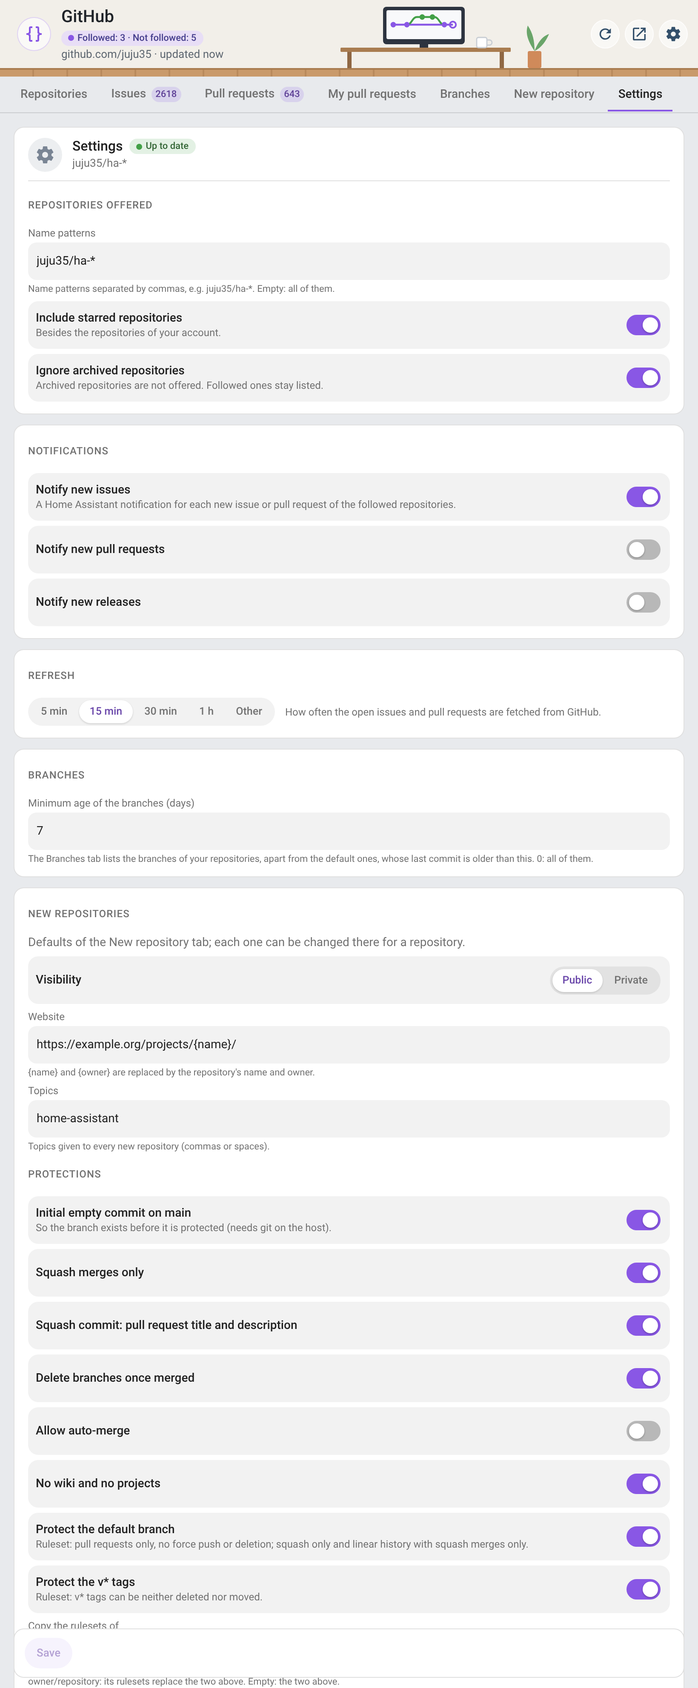
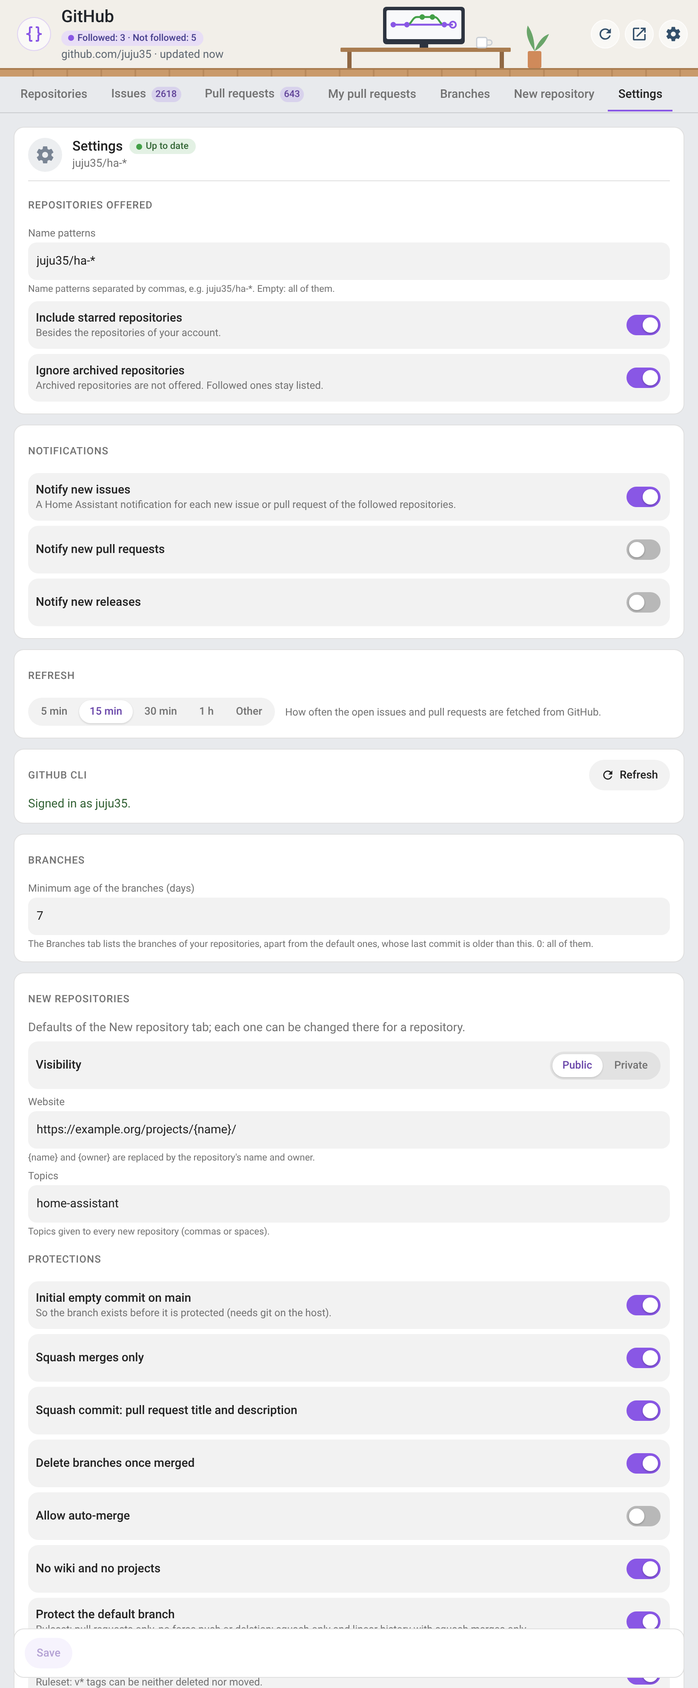
fix: find gh in the configuration folder on Home Assistant OS (2.19.1) (#70)
On Home Assistant OS, Home Assistant runs in its own container: a `gh`
installed or signed in elsewhere (Terminal & SSH add-on, another
machine) is not seen, so the New repository tab and branch deletion
never showed.

- `gh` is now also looked for in the configuration folder:
`/config/.gh/bin/gh`, signed in with `GH_CONFIG_DIR=/config/.gh/config`
— shared with the Terminal & SSH add-on and kept across updates; then
the `PATH`.
- Settings → **GitHub CLI**: whether `gh` is found and signed in (path,
config folder, or gh's error), how to set it up, and a Refresh button.
- README: setup steps for Home Assistant OS (download gh into
`/config/.gh/bin`, `gh auth login` with `GH_CONFIG_DIR`), backup note on
the token.

---
_Generated by [Claude Code](https://claude.ai/code)_

---------

diff --git a/src/github-panel/i18n/el.js b/src/github-panel/i18n/el.js
@@ -35,4 +35,5 @@ export default [
   "Ιστότοπος", "Προαιρετικό: η αρχική σελίδα του αποθετηρίου (https://…).", "Ιστότοπος: διεύθυνση http(s) έως 255 χαρακτήρες.",
   "Νέα αποθετήρια", "Προεπιλογές της καρτέλας Νέο αποθετήριο· η καθεμία αλλάζει εκεί για ένα αποθετήριο.", "Τα {name} και {owner} αντικαθίστανται από το όνομα και τον κάτοχο του αποθετηρίου.", "Θέματα για κάθε νέο αποθετήριο (κόμματα ή κενά).", "Προστασίες", "Προεπιλογές από τις Ρυθμίσεις.", "Αρχικό κενό commit στο main", "Ώστε ο κλάδος να υπάρχει πριν προστατευτεί (απαιτεί git στον κεντρικό υπολογιστή).", "Μόνο squash merge", "Squash commit: τίτλος και περιγραφή του pull request", "Διαγραφή κλάδων μετά τη συγχώνευση", "Να επιτρέπεται το auto-merge", "Χωρίς wiki και έργα", "Προστασία του προεπιλεγμένου κλάδου", "Ruleset: μόνο pull requests, χωρίς force push ή διαγραφή· μόνο squash και γραμμικό ιστορικό με «Μόνο squash merge».", "Προστασία των ετικετών v*", "Ruleset: οι ετικέτες v* δεν διαγράφονται ούτε μετακινούνται.", "Αντιγραφή rulesets από", "κάτοχος/αποθετήριο: τα rulesets του αντικαθιστούν τα δύο παραπάνω. Κενό: τα δύο παραπάνω.", "Δημιουργήθηκε, αλλά κάποια βήματα απέτυχαν:", "{step}: {error}", "Αρχικό κενό commit", "Ρυθμίσεις συγχώνευσης", "Θέματα", "Ruleset", "Αντιγραφή rulesets από: κάτοχος/αποθετήριο.",
   "Κλάδοι", "{n} παλαιότεροι από {days} ημ.", "{n} αποθετήρια", "Κανένας κλάδος παλαιότερος από {days} ημέρες, εκτός των προεπιλεγμένων.", "Επιλογή όλων", "Διαγραφή ({n})", "Διαγραφή {n} κλάδων; Δεν αναιρείται.", "Διαγράφηκαν {n} κλάδοι.", "{n} δεν διαγράφηκαν:", "Ανοιχτό pull request #{number}", "{n} ημ.", "προεπιλεγμένος κλάδος", "μη έγκυρο όνομα", "Κλάδοι", "Ελάχιστη ηλικία κλάδων (ημέρες)", "Η καρτέλα Κλάδοι δείχνει τους κλάδους των αποθετηρίων σας, εκτός των προεπιλεγμένων, των οποίων το τελευταίο commit είναι παλαιότερο. 0: όλοι.",
+  "GitHub CLI", "Συνδεδεμένος ως {login}.", "Το gh δεν βρέθηκε στον κεντρικό υπολογιστή του Home Assistant.", "Το gh δεν είναι συνδεδεμένο: {error}", "Χρειάζεται για την καρτέλα Νέο αποθετήριο και τη διαγραφή κλάδων. Στο Home Assistant OS, βάλτε το gh στο /config/.gh/bin και συνδεθείτε από το πρόσθετο Terminal & SSH: GH_CONFIG_DIR=/config/.gh/config /config/.gh/bin/gh auth login",
 ];

diff --git a/src/github-panel/i18n/bg.js b/src/github-panel/i18n/bg.js
@@ -35,4 +35,5 @@ export default [
   "Уебсайт", "По избор: началната страница на хранилището (https://…).", "Уебсайт: http(s) адрес до 255 знака.",
   "Нови хранилища", "Стойности по подразбиране на раздела Ново хранилище; всяка се променя там за хранилище.", "{name} и {owner} се заменят с името и собственика на хранилището.", "Теми за всяко ново хранилище (запетаи или интервали).", "Защити", "Стойности по подразбиране от Настройки.", "Начален празен commit в main", "За да съществува клонът преди защитата (изисква git на хоста).", "Само squash merge", "Squash commit: заглавие и описание на pull request", "Изтриване на клоновете след сливане", "Разрешаване на auto-merge", "Без уики и проекти", "Защита на клона по подразбиране", "Ruleset: само pull request-и, без force push и изтриване; само squash и линейна история при „Само squash merge“.", "Защита на таговете v*", "Ruleset: таговете v* не могат да се изтриват или местят.", "Копиране на rulesets от", "собственик/хранилище: неговите rulesets заменят двата по-горе. Празно: двата по-горе.", "Създадено, но някои стъпки не успяха:", "{step}: {error}", "Начален празен commit", "Настройки за сливане", "Теми", "Ruleset", "Копиране на rulesets от: собственик/хранилище.",
   "Клонове", "{n} по-стари от {days} д", "{n} хранилища", "Няма клонове по-стари от {days} дни, освен тези по подразбиране.", "Избор на всички", "Изтриване ({n})", "Да се изтрият ли {n} клона? Действието е необратимо.", "Изтрити клонове: {n}.", "Неуспешно изтриване: {n}:", "Отворен pull request #{number}", "{n} д", "клон по подразбиране", "невалидно име", "Клонове", "Минимална възраст на клоновете (дни)", "Разделът Клонове показва клоновете на хранилищата ви, освен тези по подразбиране, чийто последен commit е по-стар. 0: всички.",
+  "GitHub CLI", "Влезли сте като {login}.", "gh не е намерен на хоста на Home Assistant.", "gh не е влязъл: {error}", "Нужен за раздела Ново хранилище и за изтриване на клонове. В Home Assistant OS сложете gh в /config/.gh/bin и влезте от добавката Terminal & SSH: GH_CONFIG_DIR=/config/.gh/config /config/.gh/bin/gh auth login",
 ];

diff --git a/src/github-panel/i18n/ru.js b/src/github-panel/i18n/ru.js
@@ -35,4 +35,5 @@ export default [
   "Веб-сайт", "Необязательно: домашняя страница репозитория (https://…).", "Веб-сайт: адрес http(s) длиной до 255 символов.",
   "Новые репозитории", "Значения по умолчанию вкладки «Новый репозиторий»; каждое можно изменить там для репозитория.", "{name} и {owner} заменяются именем и владельцем репозитория.", "Темы для каждого нового репозитория (через запятую или пробел).", "Защита", "Значения по умолчанию из настроек.", "Пустой первый коммит в main", "Чтобы ветка существовала до защиты (нужен git на хосте).", "Только squash merge", "Коммит squash: заголовок и описание pull request", "Удалять ветки после слияния", "Разрешить auto-merge", "Без вики и проектов", "Защитить ветку по умолчанию", "Ruleset: только pull request, без force push и удаления; только squash и линейная история при «Только squash merge».", "Защитить теги v*", "Ruleset: теги v* нельзя удалить или переместить.", "Копировать rulesets из", "владелец/репозиторий: его rulesets заменяют два выше. Пусто: два выше.", "Создан, но некоторые шаги не удались:", "{step}: {error}", "Пустой первый коммит", "Настройки слияния", "Темы", "Ruleset", "Копировать rulesets из: владелец/репозиторий.",
   "Ветки", "{n} старше {days} дн.", "{n} репозиториев", "Нет веток старше {days} дн., кроме веток по умолчанию.", "Выбрать все", "Удалить ({n})", "Удалить веток: {n}? Это необратимо.", "Удалено веток: {n}.", "Не удалось удалить: {n}:", "Открытый pull request #{number}", "{n} дн.", "ветка по умолчанию", "недопустимое имя", "Ветки", "Минимальный возраст веток (дни)", "Вкладка «Ветки» показывает ветки ваших репозиториев, кроме веток по умолчанию, чей последний коммит старше. 0: все.",
+  "GitHub CLI", "Вход выполнен как {login}.", "gh не найден на хосте Home Assistant.", "gh не авторизован: {error}", "Нужен для вкладки «Новый репозиторий» и удаления веток. В Home Assistant OS поместите gh в /config/.gh/bin и авторизуйте его из дополнения Terminal & SSH: GH_CONFIG_DIR=/config/.gh/config /config/.gh/bin/gh auth login",
 ];

diff --git a/src/github-panel/i18n/sr.js b/src/github-panel/i18n/sr.js
@@ -35,4 +35,5 @@ export default [
   "Веб-сајт", "Опционо: почетна страница репозиторијума (https://…).", "Веб-сајт: http(s) адреса до 255 знакова.",
   "Нови репозиторијуми", "Подразумеване вредности картице Нови репозиторијум; свака се тамо мења за репозиторијум.", "{name} и {owner} се замењују називом и власником репозиторијума.", "Теме за сваки нови репозиторијум (зарези или размаци).", "Заштите", "Подразумеване вредности из Подешавања.", "Почетни празан commit на main", "Да грана постоји пре заштите (потребан git на хосту).", "Само squash merge", "Squash commit: наслов и опис pull request-а", "Брисање грана након спајања", "Дозволи auto-merge", "Без викија и пројеката", "Заштити подразумевану грану", "Ruleset: само pull request-ови, без force push-а и брисања; само squash и линеарна историја уз „Само squash merge”.", "Заштити v* ознаке", "Ruleset: v* ознаке не могу да се бришу ни померају.", "Копирај rulesets из", "власник/репозиторијум: његови rulesets замењују два горња. Празно: два горња.", "Направљен, али неки кораци нису успели:", "{step}: {error}", "Почетни празан commit", "Подешавања спајања", "Теме", "Ruleset", "Копирај rulesets из: власник/репозиторијум.",
   "Гране", "{n} старијих од {days} д", "{n} репозиторијума", "Нема грана старијих од {days} дана, осим подразумеваних.", "Изабери све", "Обриши ({n})", "Обрисати {n} грана? Ово се не може поништити.", "Обрисано грана: {n}.", "Није могло да се обрише: {n}:", "Отворен pull request #{number}", "{n} д", "подразумевана грана", "неважећи назив", "Гране", "Минимална старост грана (дани)", "Картица Гране приказује гране ваших репозиторијума, осим подразумеваних, чији је последњи commit старији. 0: све.",
+  "GitHub CLI", "Пријављен као {login}.", "gh није пронађен на Home Assistant хосту.", "gh није пријављен: {error}", "Потребан за картицу Нови репозиторијум и брисање грана. На Home Assistant OS ставите gh у /config/.gh/bin и пријавите га из додатка Terminal & SSH: GH_CONFIG_DIR=/config/.gh/config /config/.gh/bin/gh auth login",
 ];

diff --git a/src/github-panel/i18n/uk.js b/src/github-panel/i18n/uk.js
@@ -35,4 +35,5 @@ export default [
   "Вебсайт", "Необов'язково: домашня сторінка репозиторію (https://…).", "Вебсайт: адреса http(s) довжиною до 255 символів.",
   "Нові репозиторії", "Типові значення вкладки «Новий репозиторій»; кожне можна змінити там для репозиторію.", "{name} і {owner} замінюються назвою і власником репозиторію.", "Теми для кожного нового репозиторію (через кому або пробіл).", "Захист", "Типові значення з налаштувань.", "Порожній перший коміт у main", "Щоб гілка існувала до захисту (потрібен git на хості).", "Лише squash merge", "Коміт squash: заголовок і опис pull request", "Видаляти гілки після злиття", "Дозволити auto-merge", "Без вікі та проєктів", "Захистити типову гілку", "Ruleset: лише pull request, без force push і видалення; лише squash та лінійна історія з «Лише squash merge».", "Захистити теги v*", "Ruleset: теги v* не можна видалити чи перемістити.", "Копіювати rulesets з", "власник/репозиторій: його rulesets замінюють два вище. Порожньо: два вище.", "Створено, але деякі кроки не вдалися:", "{step}: {error}", "Порожній перший коміт", "Налаштування злиття", "Теми", "Ruleset", "Копіювати rulesets з: власник/репозиторій.",
   "Гілки", "{n} старших за {days} дн.", "{n} репозиторіїв", "Немає гілок, старших за {days} дн., крім типових.", "Вибрати всі", "Видалити ({n})", "Видалити гілок: {n}? Це незворотно.", "Видалено гілок: {n}.", "Не вдалося видалити: {n}:", "Відкритий pull request #{number}", "{n} дн.", "типова гілка", "неприпустима назва", "Гілки", "Мінімальний вік гілок (дні)", "Вкладка «Гілки» показує гілки ваших репозиторіїв, крім типових, чий останній коміт старший. 0: усі.",
+  "GitHub CLI", "Вхід виконано як {login}.", "gh не знайдено на хості Home Assistant.", "gh не авторизовано: {error}", "Потрібен для вкладки «Новий репозиторій» і видалення гілок. У Home Assistant OS покладіть gh у /config/.gh/bin і авторизуйте його з доповнення Terminal & SSH: GH_CONFIG_DIR=/config/.gh/config /config/.gh/bin/gh auth login",
 ];

diff --git a/src/github-panel/panel.js b/src/github-panel/panel.js
@@ -1814,6 +1814,27 @@ export class GitHubPanel extends HTMLElement {
     return { name: "", owner: "", description: "", homepage: null, topics: null, visibility: null, protect: null };
   }
 
+  /** Settings: whether the GitHub CLI is found and signed in on the Home Assistant host, and how to set it up. */
+  _ghSettingsHtml() {
+    const esc = githubPanelEsc;
+    const g = this._gh;
+    const [tone, text] = !g
+      ? ["", this._t("loading")]
+      : g.authenticated
+        ? ["good", this._t("s_gh_ok", { login: g.login || "gh" })]
+        : g.installed
+          ? ["warn", this._t("s_gh_signed_out", { error: g.error || "" })]
+          : ["warn", this._t("s_gh_missing")];
+    const where = [g?.path, g?.config_dir ? `GH_CONFIG_DIR=${g.config_dir}` : ""].filter(Boolean).join(" · ");
+    return `<div class="card list">
+        <div class="lhead"><h2 class="lname">${esc(this._t("s_group_gh"))}</h2>
+          <button class="act quiet" data-action="gh-check"${this._ghChecking ? " disabled" : ""}>${githubPanelIcon("refresh")}${esc(this._t("refresh"))}</button></div>
+        <div class="note ${tone}" role="status">${esc(text)}</div>
+        ${where ? `<small class="note">${esc(where)}</small>` : ""}
+        ${g?.authenticated ? "" : `<small class="note">${esc(this._t("s_gh_hint"))}</small>`}
+      </div>`;
+  }
+
   /** Settings: the defaults of the New repository tab (shown when gh is signed in). */
   _newRepoSettingsHtml() {
     if (!this._gh?.authenticated) return "";
@@ -1894,6 +1915,7 @@ export class GitHubPanel extends HTMLElement {
           <small class="note">${esc(this._t("s_refresh_hint"))}</small>
         </div>
       </div>
+      ${this._ghSettingsHtml()}
       <div class="card list">
         <div class="lhead"><h2 class="lname">${esc(this._t("s_group_branches"))}</h2></div>
         <label class="ctl"><span>${esc(this._t("s_branch_age"))}</span>
@@ -1956,6 +1978,13 @@ export class GitHubPanel extends HTMLElement {
         this._saved = false;
         this._renderSettings();
       });
+    host.querySelector("[data-action=gh-check]")?.addEventListener("click", async () => {
+      this._ghChecking = true;
+      this._renderSettings();
+      await this._loadGh(true);
+      this._ghChecking = false;
+      this._renderSettings();
+    });
     host.querySelector("[data-action=save]")?.addEventListener("click", () => this._save());
     host.querySelector("[data-action=revert]")?.addEventListener("click", () => {
       this._draft = {};

diff --git a/src/github-panel/i18n/fr.js b/src/github-panel/i18n/fr.js
@@ -35,4 +35,5 @@ export default [
   "Site web", "Facultatif : la page d'accueil du dépôt (https://…).", "Site web : une adresse http(s) de 255 caractères au plus.",
   "Nouveaux dépôts", "Valeurs par défaut de l'onglet Nouveau dépôt ; chacune se change là pour un dépôt.", "{name} et {owner} sont remplacés par le nom et le propriétaire du dépôt.", "Topics donnés à chaque nouveau dépôt (virgules ou espaces).", "Protections", "Valeurs par défaut réglées dans Réglages.", "Commit initial vide sur main", "Pour que la branche existe avant d'être protégée (nécessite git sur l'hôte).", "Squash merge uniquement", "Commit de squash : titre et description de la pull request", "Supprimer les branches une fois fusionnées", "Autoriser l'auto-merge", "Ni wiki ni projets", "Protéger la branche par défaut", "Ruleset : pull requests uniquement, ni force push ni suppression ; squash seul et historique linéaire avec « Squash merge uniquement ».", "Protéger les tags v*", "Ruleset : les tags v* ne peuvent être ni supprimés ni déplacés.", "Copier les rulesets de", "propriétaire/dépôt : ses rulesets remplacent les deux ci-dessus. Vide : les deux ci-dessus.", "Créé, mais certaines étapes ont échoué :", "{step} : {error}", "Commit initial vide", "Réglages de fusion", "Topics", "Ruleset", "Copier les rulesets de : propriétaire/dépôt.",
   "Branches", "{n} de plus de {days} j", "{n} dépôts", "Aucune branche de plus de {days} jours, hors branches par défaut.", "Tout sélectionner", "Supprimer ({n})", "Supprimer {n} branches ? C'est irréversible.", "{n} branches supprimées.", "{n} n'ont pas pu être supprimées :", "Pull request ouverte #{number}", "{n} j", "branche par défaut", "nom invalide", "Branches", "Âge minimal des branches (jours)", "L'onglet Branches liste les branches de vos dépôts, hors branches par défaut, dont le dernier commit est plus ancien. 0 : toutes.",
+  "GitHub CLI", "Connecté en tant que {login}.", "gh est introuvable sur l'hôte Home Assistant.", "gh n'est pas connecté : {error}", "Nécessaire à l'onglet Nouveau dépôt et à la suppression des branches. Sur Home Assistant OS, mettez gh dans /config/.gh/bin et connectez-le depuis l'add-on Terminal & SSH : GH_CONFIG_DIR=/config/.gh/config /config/.gh/bin/gh auth login",
 ];

diff --git a/src/github-panel/i18n/es.js b/src/github-panel/i18n/es.js
@@ -35,4 +35,5 @@ export default [
   "Sitio web", "Opcional: la página principal del repositorio (https://…).", "Sitio web: una dirección http(s) de hasta 255 caracteres.",
   "Repositorios nuevos", "Valores predeterminados de la pestaña Nuevo repositorio; cada uno se cambia allí para un repositorio.", "{name} y {owner} se sustituyen por el nombre y el propietario del repositorio.", "Temas para cada repositorio nuevo (comas o espacios).", "Protecciones", "Valores predeterminados de Ajustes.", "Commit inicial vacío en main", "Para que la rama exista antes de protegerla (requiere git en el host).", "Solo squash merge", "Commit de squash: título y descripción de la pull request", "Eliminar las ramas una vez fusionadas", "Permitir auto-merge", "Sin wiki ni proyectos", "Proteger la rama predeterminada", "Ruleset: solo pull requests, sin force push ni eliminación; solo squash e historial lineal con «Solo squash merge».", "Proteger las etiquetas v*", "Ruleset: las etiquetas v* no se pueden eliminar ni mover.", "Copiar los rulesets de", "propietario/repositorio: sus rulesets sustituyen a los dos anteriores. Vacío: los dos anteriores.", "Creado, pero algunos pasos fallaron:", "{step}: {error}", "Commit inicial vacío", "Ajustes de fusión", "Temas", "Ruleset", "Copiar los rulesets de: propietario/repositorio.",
   "Ramas", "{n} de más de {days} d", "{n} repositorios", "Ninguna rama de más de {days} días, aparte de las ramas predeterminadas.", "Seleccionar todas", "Eliminar ({n})", "¿Eliminar {n} ramas? No se puede deshacer.", "{n} ramas eliminadas.", "{n} no se pudieron eliminar:", "Pull request abierta #{number}", "{n} d", "rama predeterminada", "nombre no válido", "Ramas", "Antigüedad mínima de las ramas (días)", "La pestaña Ramas lista las ramas de tus repositorios, aparte de las predeterminadas, cuyo último commit es más antiguo. 0: todas.",
+  "GitHub CLI", "Sesión iniciada como {login}.", "No se encuentra gh en el host de Home Assistant.", "gh no ha iniciado sesión: {error}", "Necesario para la pestaña Nuevo repositorio y para eliminar ramas. En Home Assistant OS, coloca gh en /config/.gh/bin e inicia sesión desde el complemento Terminal & SSH: GH_CONFIG_DIR=/config/.gh/config /config/.gh/bin/gh auth login",
 ];

diff --git a/src/github-panel/i18n/pt.js b/src/github-panel/i18n/pt.js
@@ -35,4 +35,5 @@ export default [
   "Website", "Opcional: a página inicial do repositório (https://…).", "Website: um endereço http(s) com até 255 caracteres.",
   "Novos repositórios", "Valores predefinidos do separador Novo repositório; cada um altera-se aí para um repositório.", "{name} e {owner} são substituídos pelo nome e proprietário do repositório.", "Tópicos dados a cada novo repositório (vírgulas ou espaços).", "Proteções", "Valores predefinidos das Definições.", "Commit inicial vazio em main", "Para que o ramo exista antes de ser protegido (requer git no anfitrião).", "Apenas squash merge", "Commit de squash: título e descrição do pull request", "Eliminar os ramos após a fusão", "Permitir auto-merge", "Sem wiki nem projetos", "Proteger o ramo predefinido", "Ruleset: apenas pull requests, sem force push nem eliminação; apenas squash e histórico linear com «Apenas squash merge».", "Proteger as etiquetas v*", "Ruleset: as etiquetas v* não podem ser eliminadas nem movidas.", "Copiar os rulesets de", "proprietário/repositório: os seus rulesets substituem os dois acima. Vazio: os dois acima.", "Criado, mas alguns passos falharam:", "{step}: {error}", "Commit inicial vazio", "Definições de fusão", "Tópicos", "Ruleset", "Copiar os rulesets de: proprietário/repositório.",
   "Ramos", "{n} com mais de {days} d", "{n} repositórios", "Nenhum ramo com mais de {days} dias, além dos ramos predefinidos.", "Selecionar todos", "Eliminar ({n})", "Eliminar {n} ramos? Não é possível anular.", "{n} ramos eliminados.", "{n} não puderam ser eliminados:", "Pull request aberto #{number}", "{n} d", "ramo predefinido", "nome inválido", "Ramos", "Idade mínima dos ramos (dias)", "O separador Ramos lista os ramos dos seus repositórios, além dos predefinidos, cujo último commit é mais antigo. 0: todos.",
+  "GitHub CLI", "Sessão iniciada como {login}.", "O gh não foi encontrado no anfitrião do Home Assistant.", "O gh não tem sessão iniciada: {error}", "Necessário para o separador Novo repositório e para eliminar ramos. No Home Assistant OS, coloque o gh em /config/.gh/bin e inicie sessão a partir do add-on Terminal & SSH: GH_CONFIG_DIR=/config/.gh/config /config/.gh/bin/gh auth login",
 ];

diff --git a/src/github-panel/i18n/nl.js b/src/github-panel/i18n/nl.js
@@ -35,4 +35,5 @@ export default [
   "Website", "Optioneel: de homepage van de repository (https://…).", "Website: een http(s)-adres van maximaal 255 tekens.",
   "Nieuwe repository's", "Standaardwaarden van het tabblad Nieuwe repository; elk is daar per repository aan te passen.", "{name} en {owner} worden vervangen door de naam en eigenaar van de repository.", "Topics voor elke nieuwe repository (komma's of spaties).", "Beveiligingen", "Standaardwaarden uit Instellingen.", "Lege eerste commit op main", "Zodat de branch bestaat voordat hij beveiligd wordt (vereist git op de host).", "Alleen squash-merges", "Squash-commit: titel en beschrijving van de pull request", "Branches na de merge verwijderen", "Auto-merge toestaan", "Geen wiki en geen projecten", "Standaardbranch beveiligen", "Ruleset: alleen pull requests, geen force push of verwijderen; alleen squash en lineaire geschiedenis bij 'Alleen squash-merges'.", "v*-tags beveiligen", "Ruleset: v*-tags kunnen niet worden verwijderd of verplaatst.", "Rulesets kopiëren van", "eigenaar/repository: de rulesets ervan vervangen de twee hierboven. Leeg: de twee hierboven.", "Aangemaakt, maar sommige stappen zijn mislukt:", "{step}: {error}", "Lege eerste commit", "Merge-instellingen", "Topics", "Ruleset", "Rulesets kopiëren van: eigenaar/repository.",
   "Branches", "{n} ouder dan {days} d", "{n} repository's", "Geen branch ouder dan {days} dagen, behalve de standaardbranches.", "Alle getoonde selecteren", "Verwijderen ({n})", "{n} branches verwijderen? Dit kan niet ongedaan worden gemaakt.", "{n} branches verwijderd.", "{n} konden niet worden verwijderd:", "Open pull request #{number}", "{n} d", "standaardbranch", "ongeldige naam", "Branches", "Minimale leeftijd van de branches (dagen)", "Het tabblad Branches toont de branches van je repository's, behalve de standaardbranches, waarvan de laatste commit ouder is. 0: alle.",
+  "GitHub CLI", "Aangemeld als {login}.", "gh niet gevonden op de Home Assistant-host.", "gh is niet aangemeld: {error}", "Nodig voor het tabblad Nieuwe repository en om branches te verwijderen. Zet op Home Assistant OS gh in /config/.gh/bin en meld het aan vanuit de add-on Terminal & SSH: GH_CONFIG_DIR=/config/.gh/config /config/.gh/bin/gh auth login",
 ];

diff --git a/src/github-panel/i18n/de.js b/src/github-panel/i18n/de.js
@@ -35,4 +35,5 @@ export default [
   "Website", "Optional: die Homepage des Repositorys (https://…).", "Website: eine http(s)-Adresse mit bis zu 255 Zeichen.",
   "Neue Repositorys", "Standardwerte des Tabs Neues Repository; jeder lässt sich dort für ein Repository ändern.", "{name} und {owner} werden durch Name und Besitzer des Repositorys ersetzt.", "Topics für jedes neue Repository (Kommas oder Leerzeichen).", "Schutz", "Standardwerte aus den Einstellungen.", "Leerer erster Commit auf main", "Damit der Branch existiert, bevor er geschützt wird (benötigt git auf dem Host).", "Nur Squash-Merges", "Squash-Commit: Titel und Beschreibung des Pull Requests", "Branches nach dem Merge löschen", "Auto-Merge erlauben", "Kein Wiki und keine Projekte", "Standard-Branch schützen", "Ruleset: nur Pull Requests, kein Force-Push und kein Löschen; nur Squash und lineare Historie bei „Nur Squash-Merges“.", "v*-Tags schützen", "Ruleset: v*-Tags können weder gelöscht noch verschoben werden.", "Rulesets kopieren von", "Besitzer/Repository: seine Rulesets ersetzen die beiden oben. Leer: die beiden oben.", "Erstellt, aber einige Schritte sind fehlgeschlagen:", "{step}: {error}", "Leerer erster Commit", "Merge-Einstellungen", "Topics", "Ruleset", "Rulesets kopieren von: Besitzer/Repository.",
   "Branches", "{n} älter als {days} T.", "{n} Repositorys", "Kein Branch älter als {days} Tage, außer den Standard-Branches.", "Alle angezeigten auswählen", "Löschen ({n})", "{n} Branches löschen? Das lässt sich nicht rückgängig machen.", "{n} Branches gelöscht.", "{n} konnten nicht gelöscht werden:", "Offener Pull Request #{number}", "{n} T.", "Standard-Branch", "ungültiger Name", "Branches", "Mindestalter der Branches (Tage)", "Der Tab Branches listet die Branches deiner Repositorys außer den Standard-Branches, deren letzter Commit älter ist. 0: alle.",
+  "GitHub CLI", "Angemeldet als {login}.", "gh wurde auf dem Home-Assistant-Host nicht gefunden.", "gh ist nicht angemeldet: {error}", "Nötig für den Tab Neues Repository und zum Löschen von Branches. Unter Home Assistant OS gh nach /config/.gh/bin legen und im Add-on Terminal & SSH anmelden: GH_CONFIG_DIR=/config/.gh/config /config/.gh/bin/gh auth login",
 ];

diff --git a/src/github-panel/i18n/it.js b/src/github-panel/i18n/it.js
@@ -35,4 +35,5 @@ export default [
   "Sito web", "Facoltativo: la homepage del repository (https://…).", "Sito web: un indirizzo http(s) di massimo 255 caratteri.",
   "Nuovi repository", "Valori predefiniti della scheda Nuovo repository; ognuno si modifica lì per un repository.", "{name} e {owner} sono sostituiti dal nome e dal proprietario del repository.", "Topic dati a ogni nuovo repository (virgole o spazi).", "Protezioni", "Valori predefiniti delle Impostazioni.", "Commit iniziale vuoto su main", "Perché il branch esista prima di essere protetto (richiede git sull'host).", "Solo squash merge", "Commit di squash: titolo e descrizione della pull request", "Elimina i branch dopo il merge", "Consenti l'auto-merge", "Niente wiki né progetti", "Proteggi il branch predefinito", "Ruleset: solo pull request, niente force push né eliminazione; solo squash e cronologia lineare con «Solo squash merge».", "Proteggi i tag v*", "Ruleset: i tag v* non possono essere né eliminati né spostati.", "Copia i ruleset di", "proprietario/repository: i suoi ruleset sostituiscono i due sopra. Vuoto: i due sopra.", "Creato, ma alcuni passaggi non sono riusciti:", "{step}: {error}", "Commit iniziale vuoto", "Impostazioni di merge", "Topic", "Ruleset", "Copia i ruleset di: proprietario/repository.",
   "Branch", "{n} più vecchi di {days} g", "{n} repository", "Nessun branch più vecchio di {days} giorni, a parte i branch predefiniti.", "Seleziona tutti", "Elimina ({n})", "Eliminare {n} branch? Non si può annullare.", "{n} branch eliminati.", "{n} non è stato possibile eliminarli:", "Pull request aperta #{number}", "{n} g", "branch predefinito", "nome non valido", "Branch", "Età minima dei branch (giorni)", "La scheda Branch elenca i branch dei tuoi repository, a parte quelli predefiniti, il cui ultimo commit è più vecchio. 0: tutti.",
+  "GitHub CLI", "Accesso come {login}.", "gh non trovato sull'host di Home Assistant.", "gh non ha effettuato l'accesso: {error}", "Serve alla scheda Nuovo repository e per eliminare i branch. Su Home Assistant OS, metti gh in /config/.gh/bin ed effettua l'accesso dall'add-on Terminal & SSH: GH_CONFIG_DIR=/config/.gh/config /config/.gh/bin/gh auth login",
 ];
